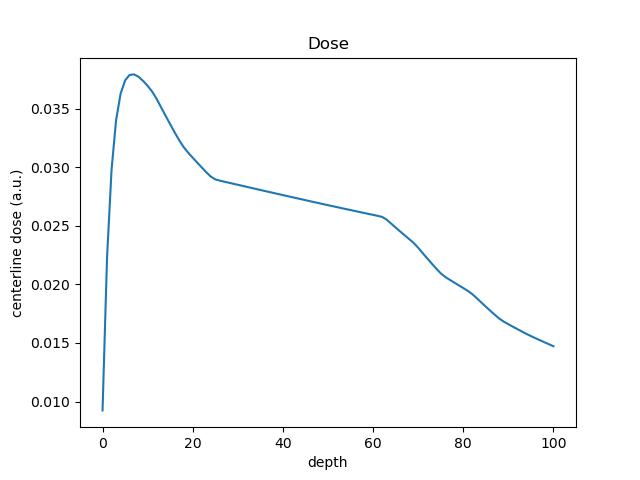
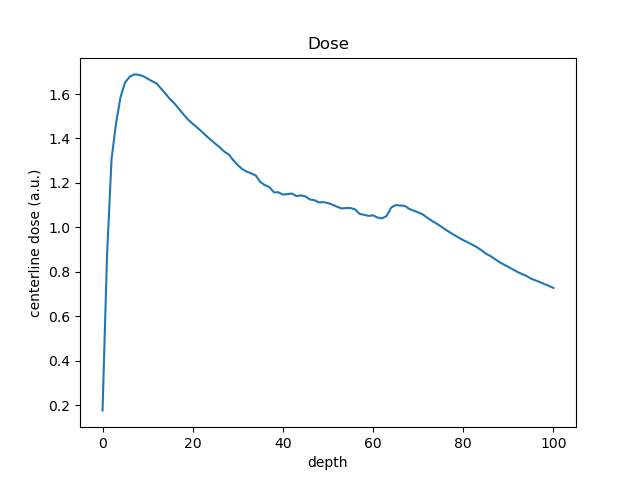
got a decent depth dose curve

diff --git a/FastDoseExample/scripts.py b/FastDoseExample/scripts.py
@@ -471,6 +471,42 @@ def overlayTermaAndX():
     plt.clf()
 
 
+def debugB():
+    """
+    The exponential with B is problematic
+    """
+    localXBFile = "/data/qifan/projects/EndtoEnd/results/CCCSBench/localXB.bin"
+    localTermaFile = "/data/qifan/projects/EndtoEnd/results/CCCSBench/localTerma.bin"
+    localExpFile = "/data/qifan/projects/EndtoEnd/results/CCCSBench/localExp.bin"
+
+    localXB = np.fromfile(localXBFile, dtype=np.float32)
+    dimZ = int(localXB.size / (16*16))
+    shape = (dimZ, 16, 16)
+    localXB = np.reshape(localXB, shape)
+    localXBCenterline = localXB[:, 8, 8]
+
+    non_zero_idx = 0
+    for i in range(localXBCenterline.size):
+        if localXBCenterline[i] > 0:
+            non_zero_idx = i
+
+    localTerma = np.fromfile(localTermaFile, dtype=np.float32)
+    localTerma = np.reshape(localTerma, shape)
+    localTermaCenterline = localTerma[:, 8, 8]
+
+    localExp = np.fromfile(localExpFile, dtype=np.float32)
+    localExp = np.reshape(localExp, shape)
+    localExpCenterline = localExp[:, 8, 8]
+
+    xCoords = np.arange(non_zero_idx)
+    plt.plot(xCoords, localTermaCenterline[:non_zero_idx])
+    plt.plot(xCoords, localXBCenterline[:non_zero_idx])
+    plt.legend(['localTerma', 'localXB'])
+    file = './figures/debugB.png'
+    plt.savefig(file)
+    plt.clf()
+
+
 if __name__ == '__main__':
     # beamListGen()
     # range_check()
@@ -484,3 +520,4 @@ if __name__ == '__main__':
     # examine_X()
     examineDoseStep()
     # overlayTermaAndX()
+    # debugB()

diff --git a/KernelGen/PostProcess.py b/KernelGen/PostProcess.py
@@ -315,8 +315,11 @@ def printKernel():
     for i in range(angles_selected):
         angleStart = angle_range * i
         angleEnd = angle_range * (i + 1)
+        A, a, B, b = exponentialKernel[i, 0], exponentialKernel[i, 1], exponentialKernel[i, 2], exponentialKernel[i, 3]
+        A *= a
+        B *= b
         line = '{:^12.4e}{:^12.4e}{:^12.4e}{:^12.4e}{:^12.4e}{:^12.4e}'.format(
-            angleStart, angleEnd, *exponentialKernel[i, :])
+            angleStart, angleEnd, A, a, B, b)
         content = content + '\n' + line
     file = os.path.join(folder, 'kernel_exp_6mv.txt')
     with open(file, 'w') as f:
